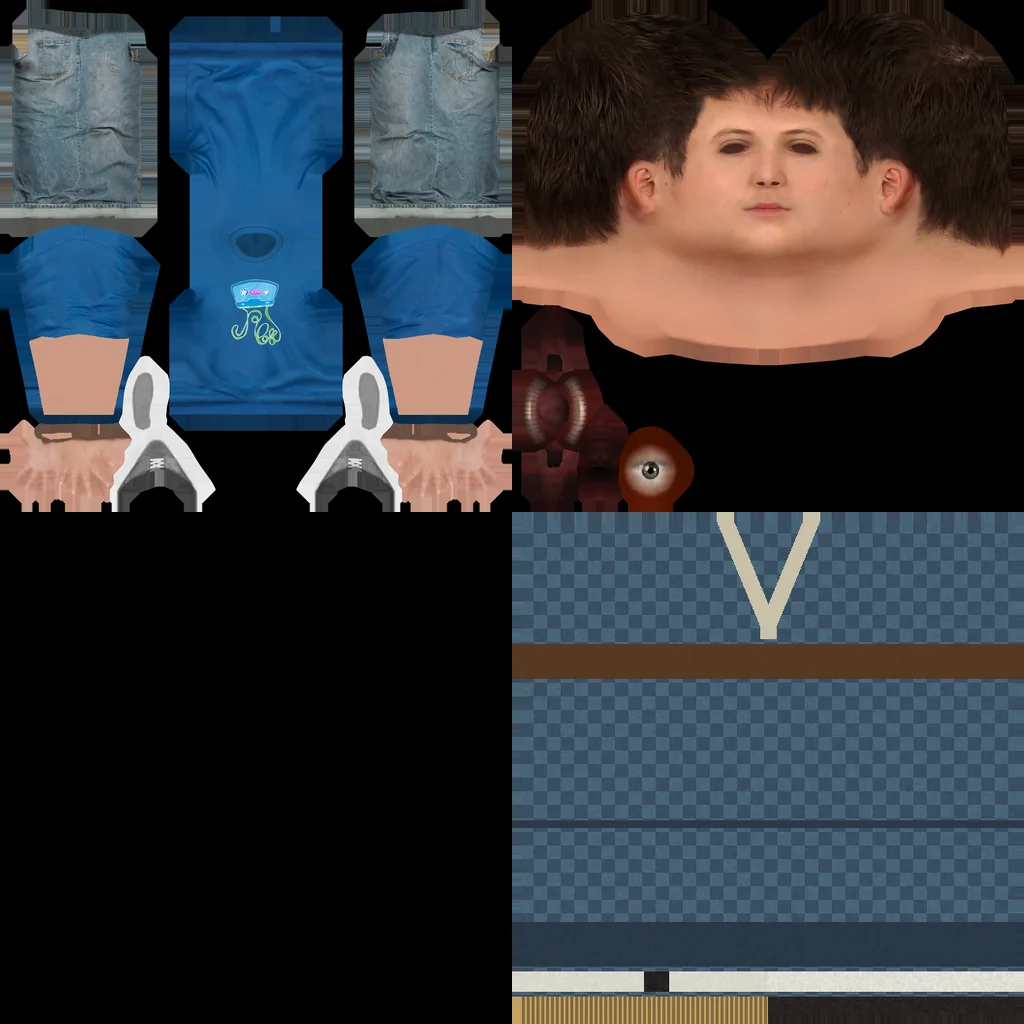
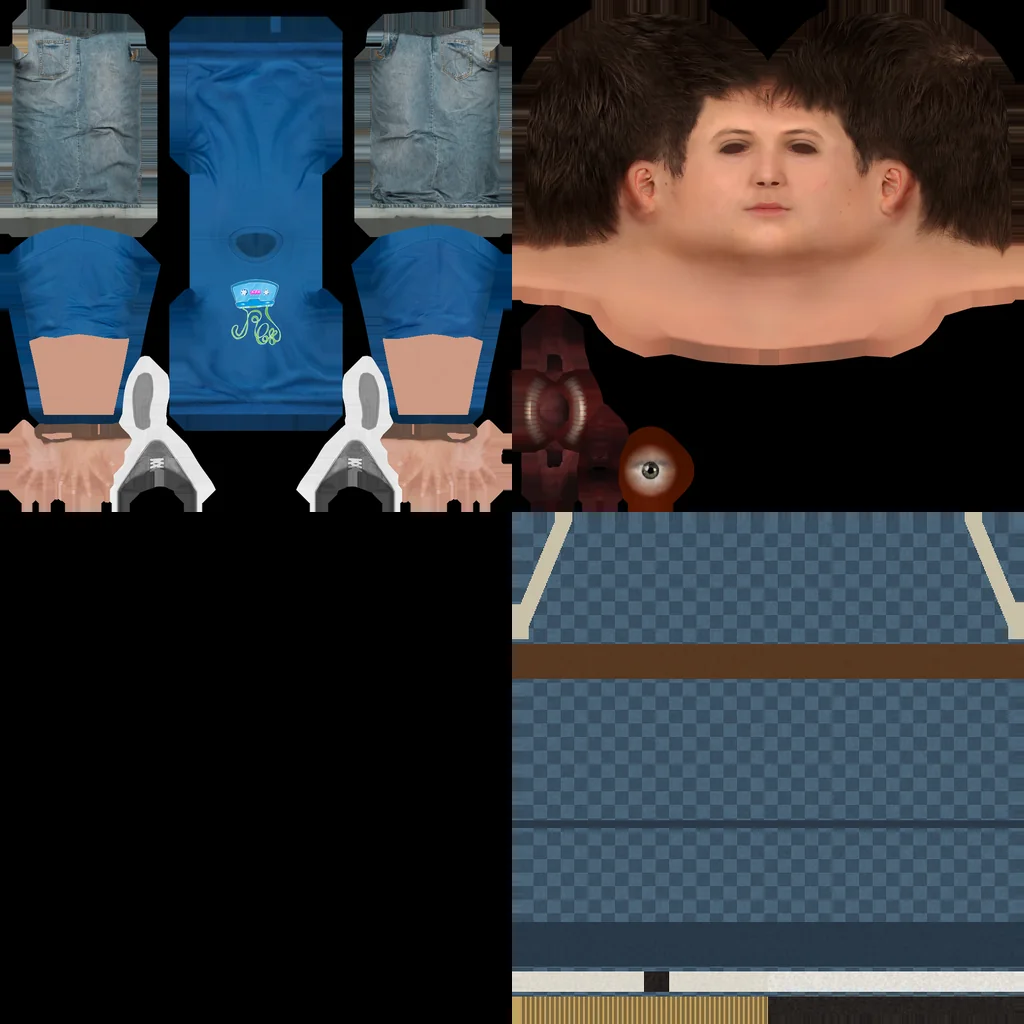
RAMEN: the collar and apron at the front
Claude-Session: https://claude.ai/code/session_01XFdBNAcxGP5Xs7KoBTVxE4

Changed region(s): [[0.6875, 0.5, 0.8125, 0.625], [0.9375, 0.5, 1.0, 0.625], [0.5, 0.5, 0.5625, 0.625]]

diff --git a/tools/sushi-people.py b/tools/sushi-people.py
@@ -287,7 +287,7 @@ def cloth_tex(d, seed):   # the clothes' own picture, painted: the robe (with it
     vr = lambda a, b: (v >= a) & (v < b)
     # the robe's rows (v: 0 at the collar, 0.62 at the hem): the collar band down the front, the obi at the waist
     col = hexc(d['collar']); front = np.abs(u - 0.5) < 0.5
-    ang = (u - 0.5) * 2 * math.pi   # 0 at the front
+    ang = (((u + 0.5) % 1) - 0.5) * 2 * math.pi   # 0 at the front (the rings start there)
     lap = np.abs(np.sin(ang / 2)) < (0.07 + np.clip(0.26 - v * 1.2, 0, 1) * 0.45)
     collar = (np.abs(np.abs(ang) - np.clip(0.55 - v * 2.6, 0.0, 1)) < 0.11) & (v < 0.24) & ~(np.abs(ang) > 2.6)
     px[collar & robe] = col
